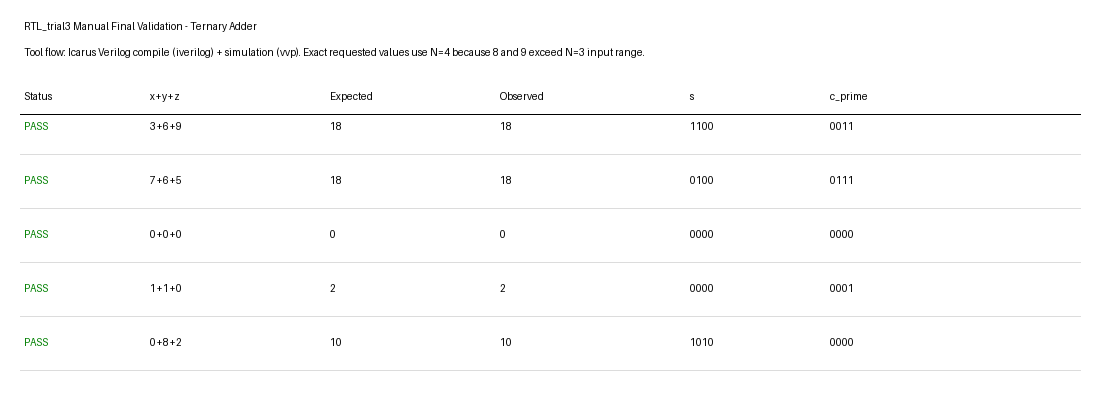
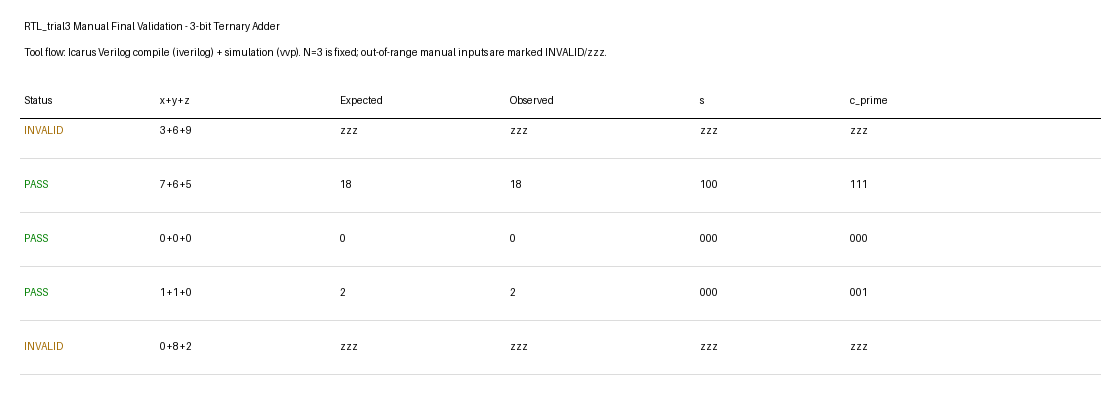
Correct RTL_trial3 manual validation range handling

diff --git a/RTL_trial3/execution_report.md b/RTL_trial3/execution_report.md
@@ -152,20 +152,19 @@ Verification uses Icarus Verilog: `iverilog` for compile and `vvp` for simulatio
 ### Manual Final Validation
 
 The following user-provided adder operations were run as a separate final
-validation using Icarus Verilog. Because `RTL_trial3` defaults to `N = 3`,
-values `8` and `9` exceed the default 3-bit input range. The exact requested
-decimal operations were therefore validated by instantiating the same
-parameterized module with `N = 4`.
+validation using Icarus Verilog. `RTL_trial3` is fixed at `N = 3` for this
+execution, so each input must be in the unsigned range `0..7`. Values outside
+that range are marked invalid as `zzz`; the testbench does not change `N`.
 
 ```text
 VCD info: dumpfile manual_adder_ops.vcd opened for output.
-PASS 3+6+9 expected=18 observed=18 s=1100 c_prime=0011
-PASS 7+6+5 expected=18 observed=18 s=0100 c_prime=0111
-PASS 0+0+0 expected=0 observed=0 s=0000 c_prime=0000
-PASS 1+1+0 expected=2 observed=2 s=0000 c_prime=0001
-PASS 0+8+2 expected=10 observed=10 s=1010 c_prime=0000
-OVERALL PASS
-manual_adder_ops_tb.v:57: $finish called at 5000 (1ps)
+INVALID 3+6+9 reason=out_of_range_for_N3 expected=zzz observed=zzz s=zzz c_prime=zzz
+PASS 7+6+5 expected=18 observed=18 s=100 c_prime=111
+PASS 0+0+0 expected=0 observed=0 s=000 c_prime=000
+PASS 1+1+0 expected=2 observed=2 s=000 c_prime=001
+INVALID 0+8+2 reason=out_of_range_for_N3 expected=zzz observed=zzz s=zzz c_prime=zzz
+OVERALL PASS valid_cases_passed invalid_cases=2
+manual_adder_ops_tb.v:65: $finish called at 3000 (1ps)
 ```
 
 The numeric result is reconstructed from the carry-save outputs as:

diff --git a/RTL_trial3/verification/manual_final/manual_adder_ops_N3_range_note.md b/RTL_trial3/verification/manual_final/manual_adder_ops_N3_range_note.md
@@ -8,6 +8,5 @@ Two requested final-validation cases contain values outside that range:
 - `3 + 6 + 9`: `9` does not fit in 3 bits.
 - `0 + 8 + 2`: `8` does not fit in 3 bits.
 
-To test the exact decimal operations without silent truncation, the manual
-validation testbench instantiates the same parameterized module with `N = 4`.
-This validates the intended generic `N`-bit behavior of the code.
+The correction is to keep `N = 3` and explicitly mark those cases invalid. The
+testbench must not change `N` to make out-of-range values fit.
